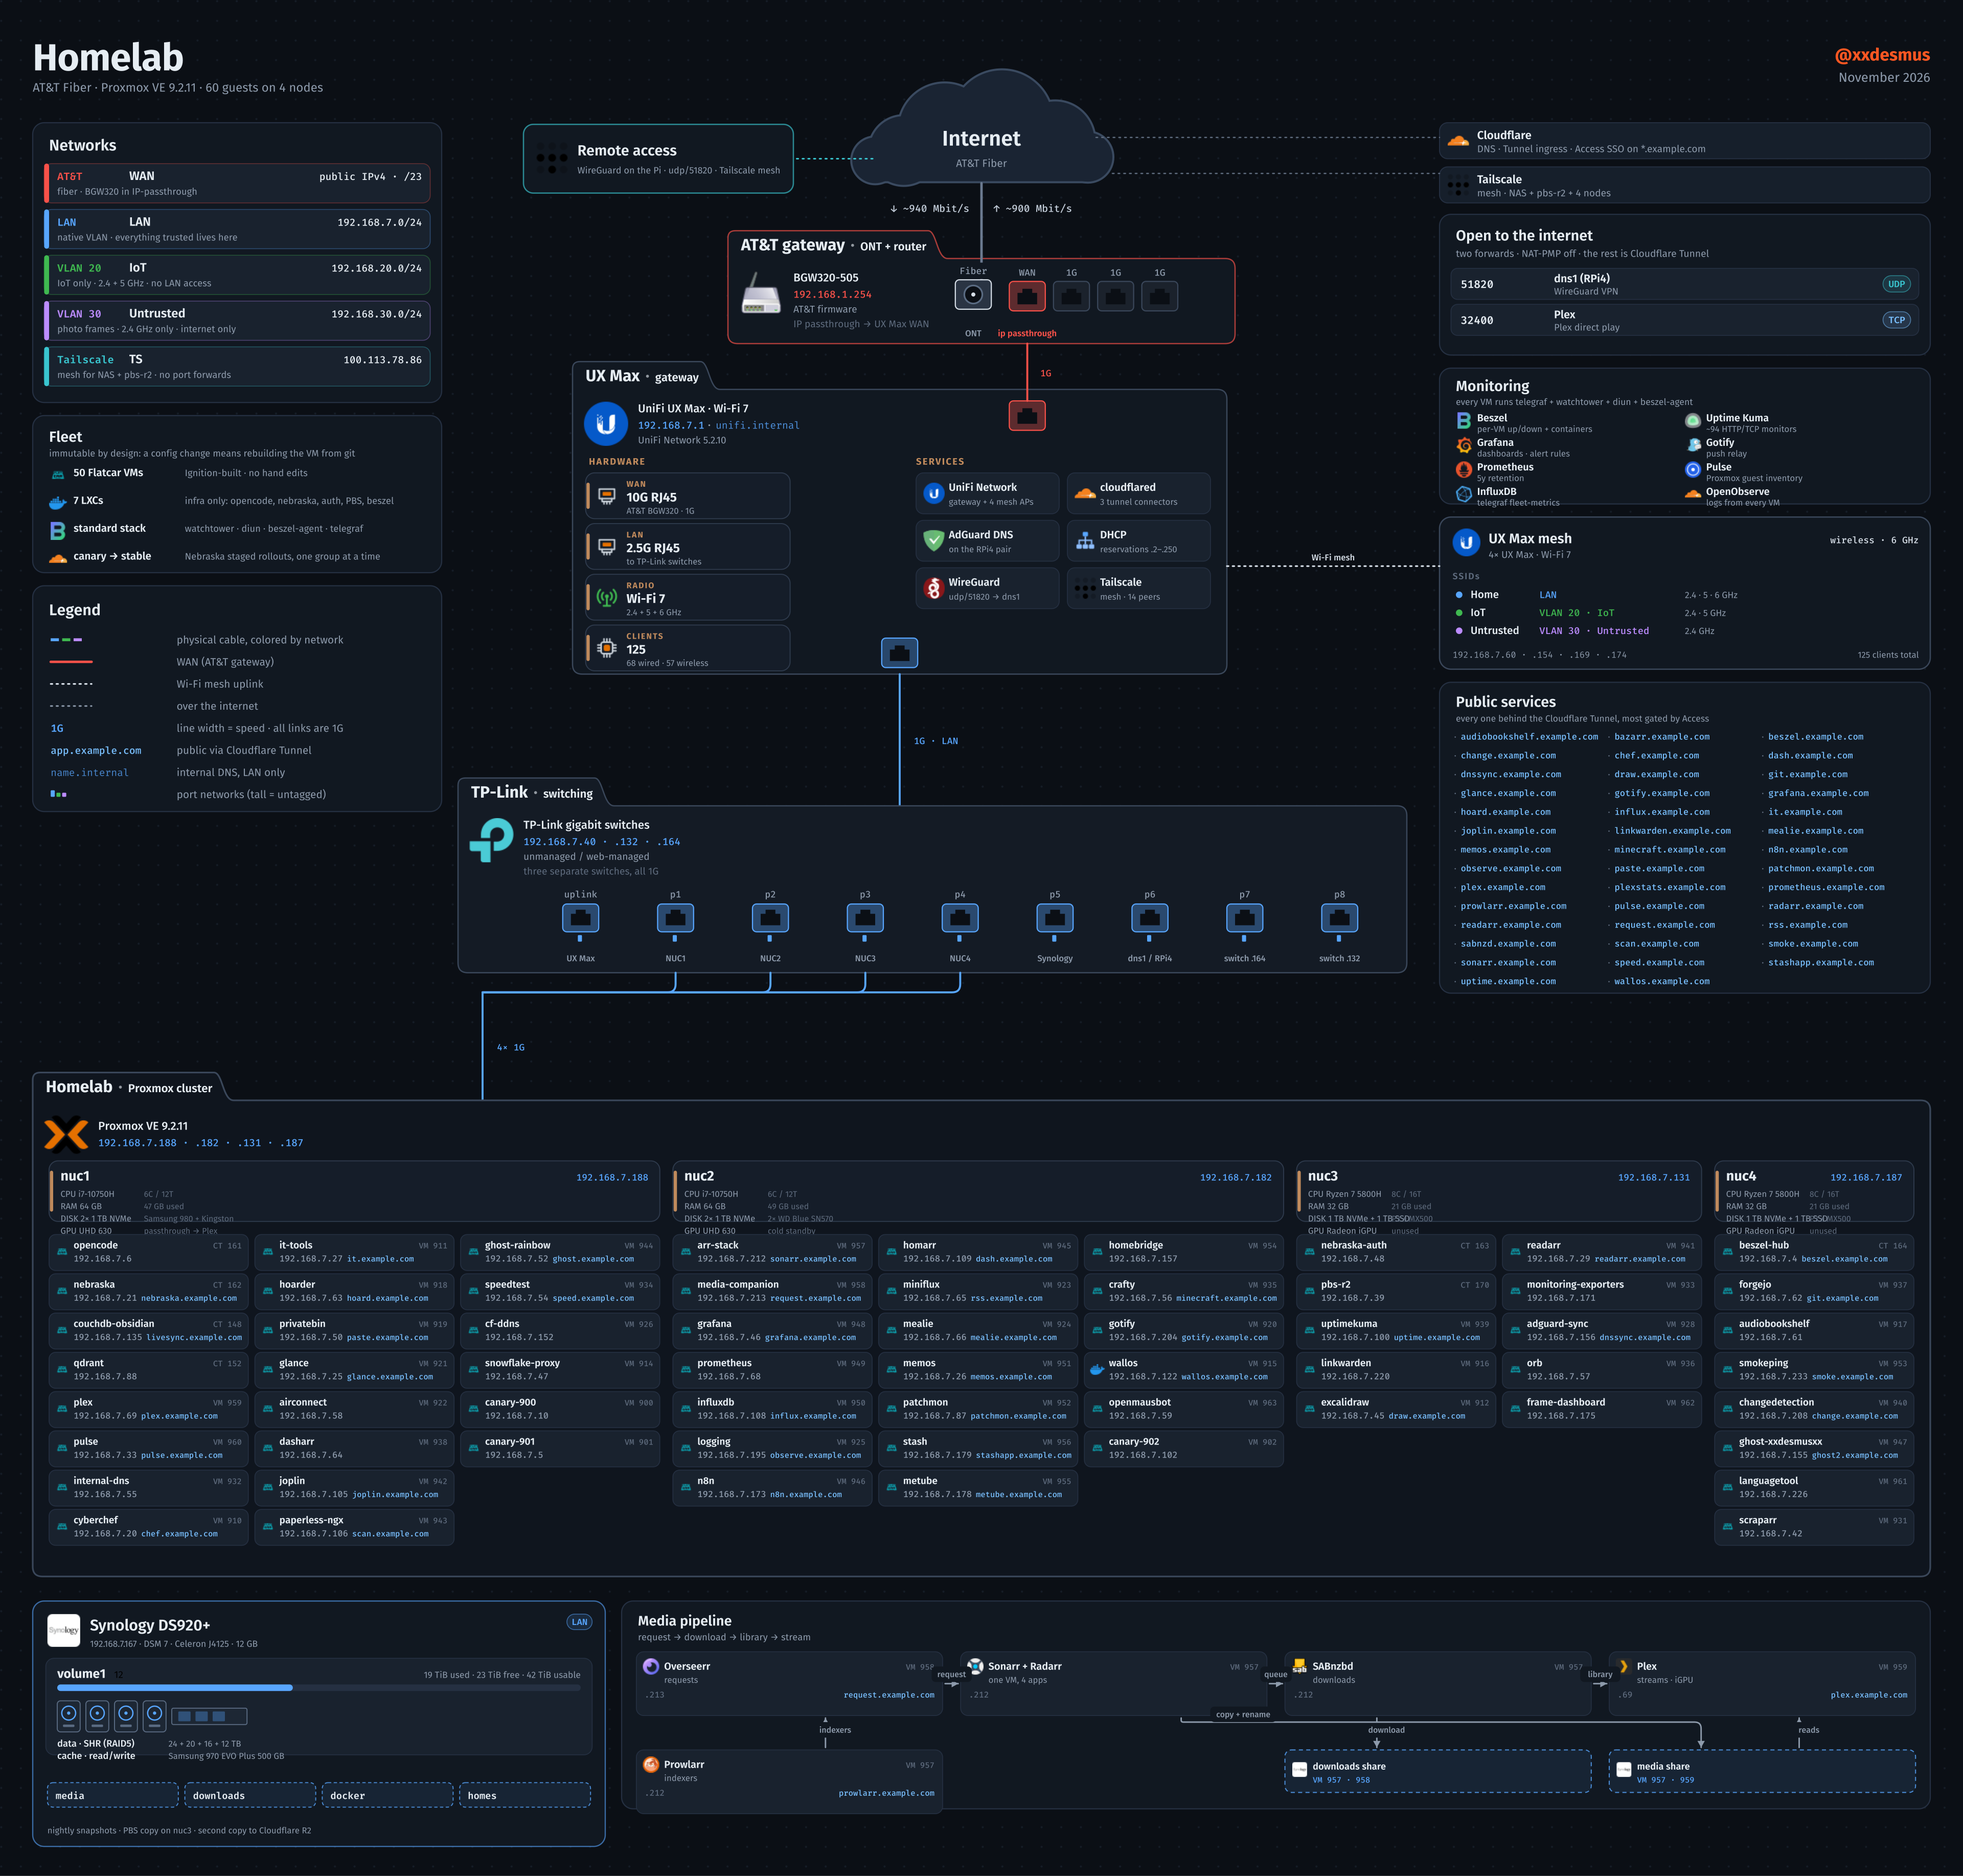
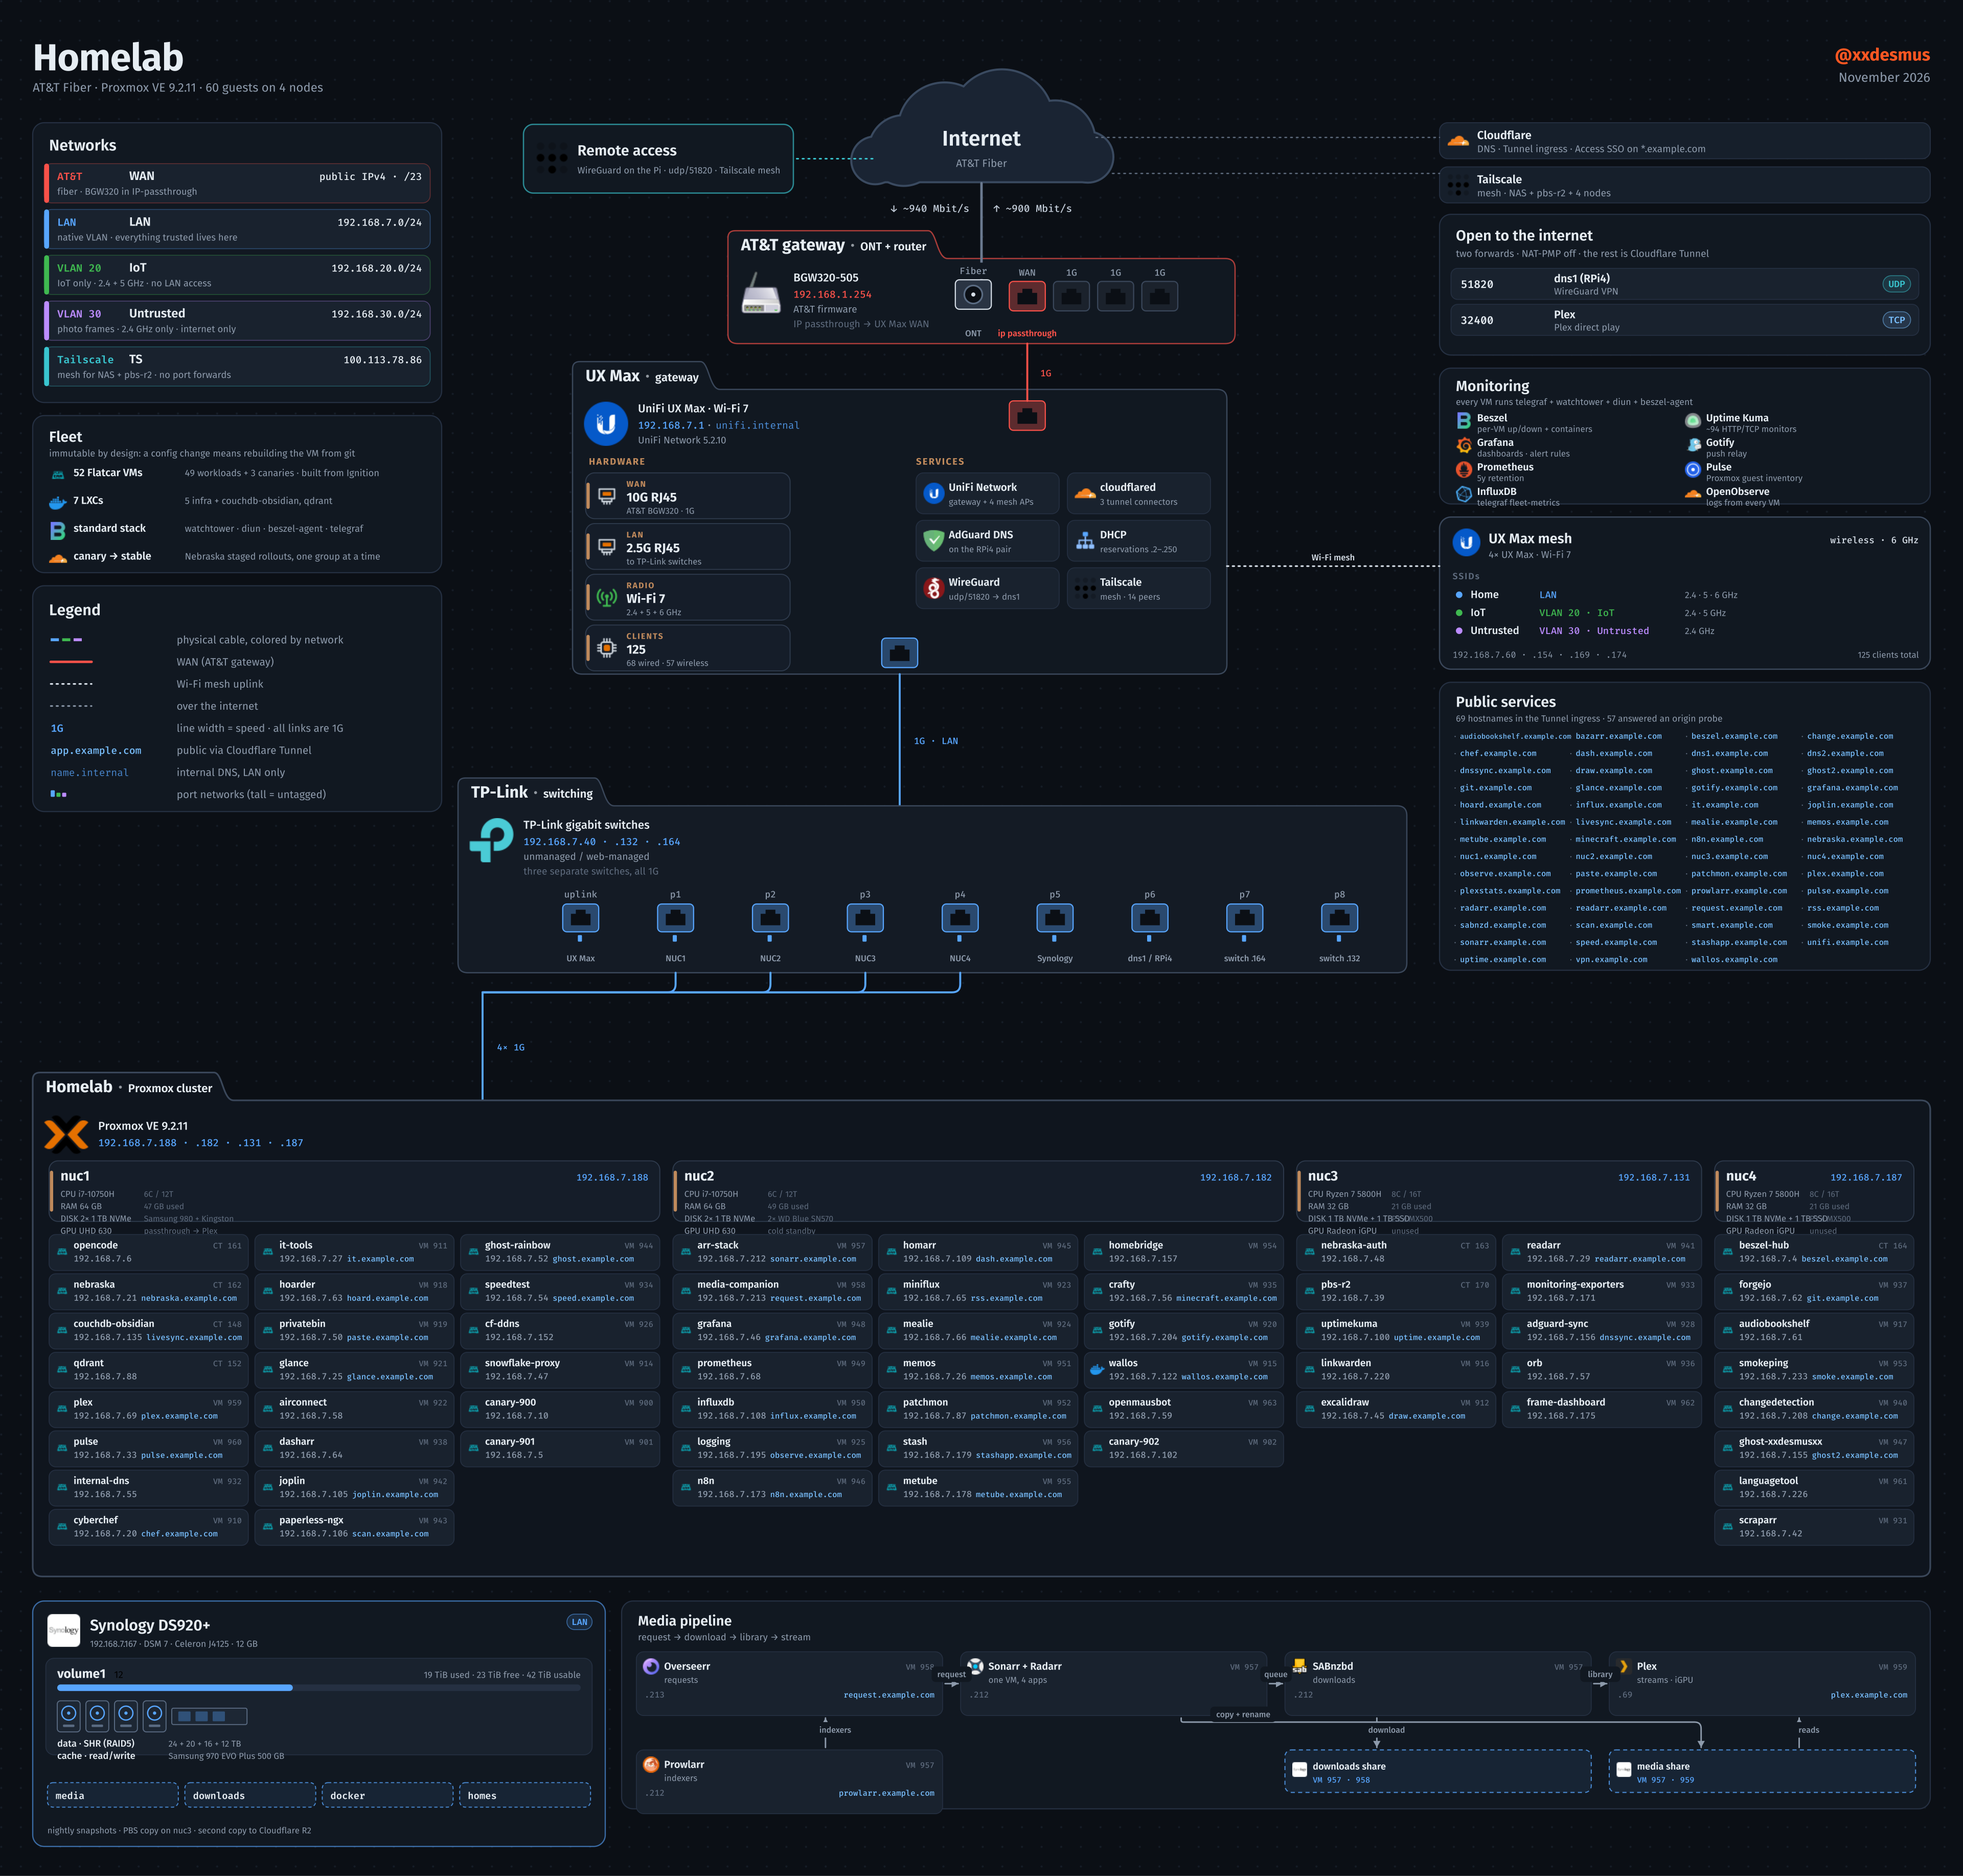
Correct the fleet and ingress counts, verify the hostname list
The flatcar-lab agent caught two figures that disagreed with its own output,
and both held up against live data:

- Fleet: 52 Flatcar QEMU VMs (49 workloads + canaries 900-902), 7 LXCs and
  openmausbot (VM 963, Debian) - 60 guests total, not 50 VMs.
- Ingress: the Tunnel has 69 named hostnames, not 42. Each origin was
  TCP-probed: 57 answer, 12 are stale (workflow, obsidian, email, llm, libre,
  khoj, safe, comfy, claude, models, dozzle, backup) and are left out.

Also fixes the root cause of the grid overflow: measure()/fit() now take a
mono flag and measure with Fira Code, the font the text actually renders in.
Fira Sans is narrower, so monospace labels were sized too wide and collided.

Changed region(s): [[0.75, 0.3729, 0.9688, 0.5282], [0.0938, 0.2486, 0.1562, 0.2796]]

diff --git a/build.py b/build.py
@@ -92,29 +92,44 @@ try:
     }
     if not all(_FONTS.values()):
         raise RuntimeError("Fira Sans not found")
+    _MONO_FILE = _font_file("Fira Code")
+    if not _MONO_FILE:
+        raise RuntimeError("Fira Code not found")
     PIL_OK = True
     _FCACHE = {}
 
-    def measure(s, size, weight=700):
-        weight = min(_FONTS, key=lambda w: abs(w - weight))
-        key = (weight, size)
-        if key not in _FCACHE:
-            _FCACHE[key] = ImageFont.truetype(_FONTS[weight], size=size * 8)
+    def measure(s, size, weight=700, mono=False):
+        """Real advance width from the font that will actually render the text.
+
+        Mono text must be measured with Fira Code: Fira Sans is narrower, so measuring a
+        monospace label with it under-reports the width and the label collides with its
+        neighbour (this shipped once — see the public-host grid).
+        """
+        if mono:
+            key = ("mono", size)
+            if key not in _FCACHE:
+                _FCACHE[key] = ImageFont.truetype(_MONO_FILE, size=size * 8)
+        else:
+            weight = min(_FONTS, key=lambda w: abs(w - weight))
+            key = (weight, size)
+            if key not in _FCACHE:
+                _FCACHE[key] = ImageFont.truetype(_FONTS[weight], size=size * 8)
         return _FCACHE[key].getlength(s) / 8
 except Exception:
-    def measure(s, size, weight=700):
-        return sum(0.68 if c.isupper() else 0.58 if c.isdigit() else 0.5 for c in s) * size
+    def measure(s, size, weight=700, mono=False):
+        return len(s) * size * (0.602 if mono else 0.53)
 
 
 def fqdn(h):
     return f"{h}.{SHOWN_DOMAIN}"
 
 
-def fit(s, size, weight, width, floor=9.5):
-    """Largest size ≤ size at which `s` fits `width`."""
-    if measure(s, size, weight) <= width:
+def fit(s, size, weight, width, floor=9.5, mono=False):
+    """Largest size ≤ size at which `s` fits `width`, measured in the font it renders with."""
+    w = measure(s, size, weight, mono)
+    if w <= width:
         return size
-    return max(floor, round(size * width / measure(s, size, weight), 2))
+    return max(floor, round(size * width / w, 2))
 
 
 class SVG:
@@ -287,7 +302,7 @@ def device_card(x, y, w, h, icons, g, color, fill=PANEL, stroke=None, sw=1.6):
     S.text(tx_, y + 28 + dy, g.get("model") or "custom build",
            fit(g.get("model") or "custom build", 14, 500, avail),
            TEXT if g.get("model") else MUTED, 500)
-    addr(tx_, y + 48 + dy, g["ip"], g, color, fit(g["ip"] + " " + (hostname(g)[0] or ""), 12, 500, avail))
+    addr(tx_, y + 48 + dy, g["ip"], g, color, fit(g["ip"] + " " + (hostname(g)[0] or ""), 12, 500, avail, mono=True))
     if g.get("os"):
         S.text(tx_, y + 66, g["os"], fit(g["os"], 12, 400, avail), MUTED, 400)
     if g.get("note"):
@@ -543,7 +558,7 @@ for i, v in enumerate(INV["vlans"]):
     S.add(f'<rect x="{vx+14}" y="{y}" width="6" height="48" rx="3" fill="{v["color"]}"/>')
     S.text(vx + 30, y + 20, v["tag"], 12.5, v["color"], 600, mono=True)
     S.text(vx + 118, y + 20, v["name"], 15, TEXT, 600)
-    S.text(vx + vw - 24, y + 20, v["subnet"], fit(v["subnet"], 12, 500, 210), TEXT, 500, "end", mono=True)
+    S.text(vx + vw - 24, y + 20, v["subnet"], fit(v["subnet"], 12, 500, 210, mono=True), TEXT, 500, "end", mono=True)
     S.text(vx + 30, y + 38, v["note"], fit(v["note"], 11.5, 400, vw - 60), MUTED, 400)
 
 # ---- fleet facts (fills the gap under the networks table)
@@ -607,9 +622,9 @@ for i, k in enumerate(LG_ROWS):
 # ---- public hostnames (right column, under the AP card)
 PH_ = INV["fleet"]
 hosts = PH_["public_hosts"]
-cols = 3
-cell_w = (IW_ - 36) / cols
-cell_h = 23
+cols = 4
+cell_w = (IW_ - 34) / cols
+cell_h = 21
 rows_ = -(-len(hosts) // cols)
 ph_y = apy + APH + 16
 ph_h = 58 + rows_ * cell_h
@@ -619,8 +634,8 @@ S.text(IX_ + 20, ph_y + 48, PH_["hosts_note"], fit(PH_["hosts_note"], 11, 400, I
 for i, h in enumerate(hosts):
     cx_ = IX_ + 18 + (i % cols) * cell_w
     cy_ = ph_y + 58 + (i // cols) * cell_h
-    S.text(cx_, cy_ + 12, "·", 10, FAINT, 600)
-    S.text(cx_ + 8, cy_ + 12, fqdn(h), fit(fqdn(h), 10.5, 500, cell_w - 14), LINK, 500, mono=True)
+    S.text(cx_, cy_ + 11, "·", 9, FAINT, 600)
+    S.text(cx_ + 7, cy_ + 11, fqdn(h), fit(fqdn(h), 9.5, 500, cell_w - 11, floor=8.5, mono=True), LINK, 500, mono=True)
 
 # ================================================================ Proxmox cluster
 CL = INV["cluster"]
@@ -760,7 +775,7 @@ def pnode(n, x, y, w=NW_):
     S.text(x + 34, y + 38, n["sub"], fit(n["sub"], 10.5, 400, w - 44), MUTED, 400)
     S.text(x + 10, y + 56, n["ip"], 10, FAINT, 500, mono=True)
     if n.get("host"):
-        S.text(x + w - 10, y + 56, fqdn(n["host"]), fit(fqdn(n["host"]), 9.5, 500, 130), LINK, 500, "end", mono=True)
+        S.text(x + w - 10, y + 56, fqdn(n["host"]), fit(fqdn(n["host"]), 9.5, 500, 130, mono=True), LINK, 500, "end", mono=True)
 
 
 # row 1: the request path. row 2: indexers + Plex, with the two shares under them.

diff --git a/README.md b/README.md
@@ -6,7 +6,8 @@ four-node Proxmox cluster, every guest on it, the Synology storage, and the medi
 
 Forked from [Goblinmine/homelab-diagram](https://github.com/Goblinmine/homelab-diagram) and
 rebuilt for a different topology: a flat `192.168.7.0/24` LAN with two extra VLANs, a
-4-node cluster running 60 guests, and Cloudflare Tunnel ingress instead of port forwards.
+4-node cluster running 60 guests (52 Flatcar VMs + 7 LXCs + one non-Flatcar VM), and
+Cloudflare Tunnel ingress instead of port forwards.
 
 ![Diagram](out/homelab.png)
 
@@ -23,8 +24,9 @@ rebuilt for a different topology: a flat `192.168.7.0/24` LAN with two extra VLA
   shares the media VMs mount.
 - **Media pipeline**: request → download → library → stream, with the two shares each stage
   touches.
-- **Exposure**: the two real port forwards (WireGuard, Plex) versus the 42 public hostnames
-  that ride the Cloudflare Tunnel, plus the monitoring stack.
+- **Exposure**: the two real port forwards (WireGuard, Plex) versus the 69 hostnames in the
+  Cloudflare Tunnel ingress — 57 of which answered an origin probe; the other 12 point at
+  addresses that no longer answer. Plus the monitoring stack.
 
 ## How it works
 
@@ -87,7 +89,8 @@ Everything in `inventory.yaml` was read live on 2026-11-11, not guessed:
 | Synology DSM over SSH | model, disks, `volume1` usage, shares |
 | `pvesh get /nodes/<n>/status` | CPU model, RAM per node |
 | Prometheus `speedtest_tracker_*` | real WAN throughput |
-| `docs/PORT-REGISTER.md` + Tunnel ingress | public hostnames |
+| `tunnel-migration/production-ingress.json` | the 69 hostnames, each TCP-probed for a live origin |
+| `pvesh` guest tags | 52 `flatcar-*` QEMU VMs (49 workloads + 3 canaries), 7 LXCs, 1 Debian VM |
 
 ## Credits & license
 

diff --git a/CLAUDE.md b/CLAUDE.md
@@ -48,7 +48,8 @@ what changed here so a future session does not re-derive it.
 
 `inventory.yaml` was filled on 2026-11-11 from live read-only checks:
 
-- `pvesh get /cluster/resources --type vm` — 60 running guests (53 QEMU + 7 LXC), ids, RAM.
+- `pvesh get /cluster/resources --type vm` — 60 running guests: 52 `flatcar-*` QEMU VMs
+  (49 workloads + canaries 900/901/902), 7 LXCs, and `openmausbot` (VM 963, Debian).
 - UniFi API — WAN uplink (`1G` negotiated on `eth1`), VLANs 20/30, the three SSIDs, four mesh
   APs on 6 GHz, the two port forwards, and the fixed-IP map.
 - `dig @192.168.7.55 <name>.flatcar-lab.internal` — every VM's address.
